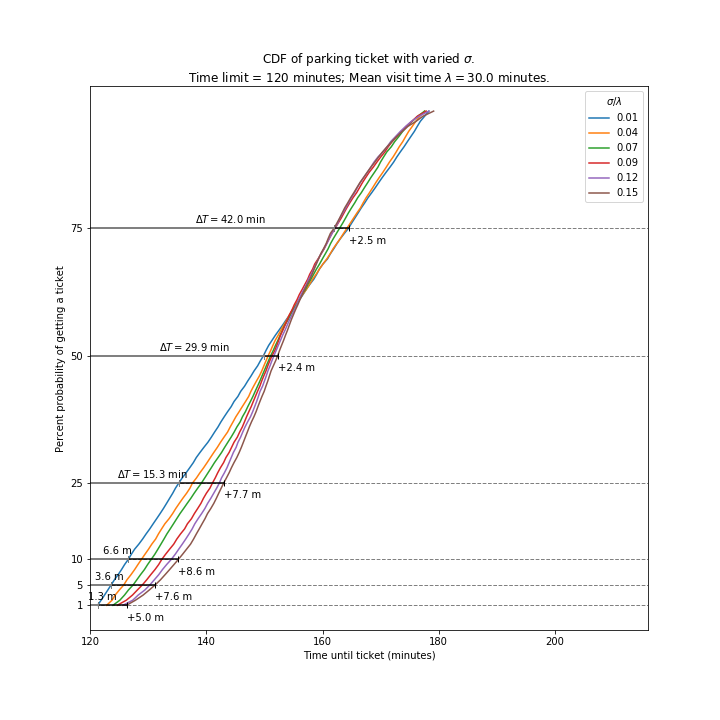
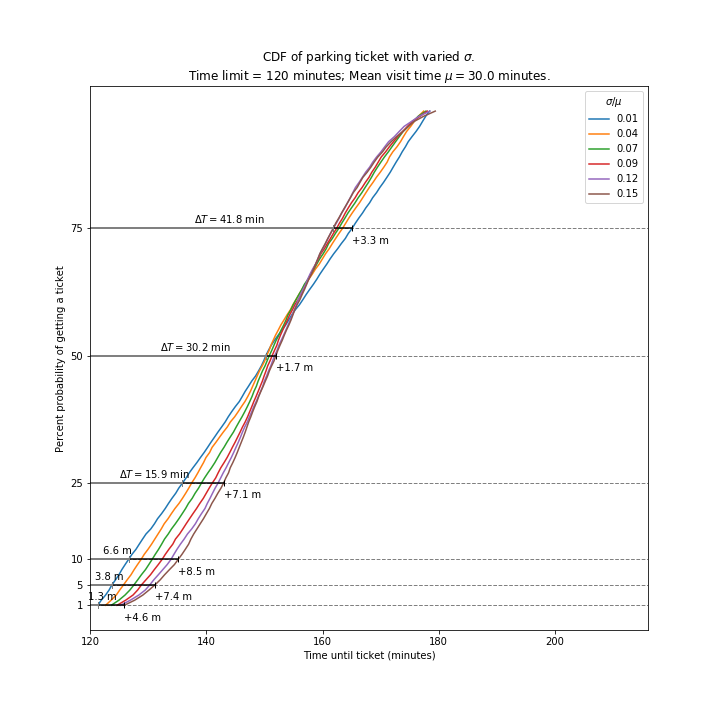
Updated parking article

diff --git a/_site/2019/08/12/modelling-parking-ticket-times.html b/_site/2019/08/12/modelling-parking-ticket-times.html
@@ -185,7 +185,12 @@
       <li><a href="#the-order-of-events-leading-to-a-ticket">The order of events leading to a ticket.</a></li>
     </ul>
   </li>
-  <li><a href="#my-model-of-the-visit-times">My model of the visit times.</a></li>
+  <li><a href="#thinking-about-a-model-for-this-process">Thinking about a model for this process</a>
+    <ul>
+      <li><a href="#periodicity-or-lack-thereof">Periodicity, or lack thereof</a></li>
+      <li><a href="#my-proposed-solution-and-model-for-the-visit-times">My proposed solution and model for the visit times.</a></li>
+    </ul>
+  </li>
   <li><a href="#implementation-details">Implementation details</a>
     <ul>
       <li><a href="#inability-to-vectorize-the-arrival-time-loops">Inability to vectorize the arrival time loops</a></li>
@@ -216,10 +221,35 @@
   <li>At the first arrival after the two-hour mark, the ticket is given.</li>
 </ol>
 
-<h2 id="my-model-of-the-visit-times">My model of the visit times.</h2>
+<h2 id="thinking-about-a-model-for-this-process">Thinking about a model for this process</h2>
+
+<h3 id="periodicity-or-lack-thereof">Periodicity, or lack thereof</h3>
+<p>There is likely <em>some</em> periodicity to the arrivals of the PEV, except in the case where there are several PEVs on the same beat, able to communicate with each other. However, in either case, there will be some periodic behavior.</p>
+
+<p>(1) Perfectly periodic visits look like this (mean period <script type="math/tex">\mu = 12</script>):</p>
+
+<p><img src="/images/parking_periodic.png" alt="CDF for long times" title="title" class="align-center" /></p>
+
+<p>(2) Perfectly non-periodic visits (I’ve generated these with the exact same same mean period, <script type="math/tex">\mu=12</script>) look something like this:</p>
+
+<p><img src="/images/parking_non_periodic.png" alt="CDF for long times" title="title" class="align-center" /></p>
+
+<p>It is fascinating that to humans, this author very much included, truly random events don’t look random, at least not without a lot of re-training of our intuition. To me, the data points look like they arrive in clumps. This strikes me as what rain sounds like when it strikes a thin roof.</p>
+
+<p>This latter distribution is very common in the natural world: any non-correlated i.i.d. events, such as photons from constant-intensity source hitting a detector, or rain drops striking a tin roof.</p>
+
+<p>This latter case is called a Poisson process, about which the following properties:</p>
+<ol>
+  <li>The time between arrivals is given by a negative exponential distribution.</li>
+  <li>The total count of events during a time-duration <script type="math/tex">\Delta T</script> is given by the Poisson distribution.</li>
+</ol>
+
+<p>A big question here is: how do we capture this quasi-periodicity with our probabilistic model?</p>
+
+<h3 id="my-proposed-solution-and-model-for-the-visit-times">My proposed solution and model for the visit times.</h3>
 <p>Say that the parking enforcement vehicle (PEV) arrives, on average, every <script type="math/tex">\mu</script> minutes—this is the mean wait time.</p>
 
-<p>The following is my argument for my model, and why it’s plausible:</p>
+<p>This is my model of the process, including arguments for why I think the model is plausible:</p>
 
 <ul>
   <li>Time <em>t=0</em> starts at the moment you park the car.</li>
@@ -241,18 +271,18 @@
 </ul>
 
 <p>The monte carlo simulation thus takes this simple nested loop (pseudocode):</p>
-<div class="highlighter-rouge"><div class="highlight"><pre class="highlight"><code>N := 10,000
+
+<figure class="highlight"><pre><code class="language-guess_lang" data-lang="guess_lang">N := 10,000
 data := array(length=N)
 for n going from 1 to N:
   sum := generate_t0() # randomly drawn initial time
   while sum &lt; 120: # minutes
     sum := sum + generate_t_i() # randomly drawn subsequent time
-  data[n] := sum   
-</code></pre></div></div>
+  data[n] := sum   </code></pre></figure>
 
 <p>For each iteration of the time-until-ticket simulation, we sum randomly drawn arrival times until 2 hours is exceeded; the total elapsed time is then recorded. I found that the histogram (which will begin to approximate the true <a href="https://en.wikipedia.org/wiki/Probability_density_function">probability density function</a> (pdf) as <script type="math/tex">N</script>  gets big, according to the <a href="https://en.wikipedia.org/wiki/Law_of_large_numbers">Law of Large Numbers</a>), starts to stabilize around <script type="math/tex">N > \mathrm{10,000}</script>.</p>
 
-<p>Here is what a typical such histogram looks like:
+<p>Here’s what a histogram of this simulation’s typical output looks like:
 <img src="/images/parking_hist_example.png" alt="CDF for long times" title="title" class="align-center" />
 Though, as discussed in the results section, below, this is not as useful a representation of the data for our purposes as a cumulative distribution function (CDF) view.</p>
 
@@ -264,7 +294,9 @@ Though, as discussed in the results section, below, this is not as useful a repr
 
 <h2 id="simulation-results">Simulation results</h2>
 
-<p>However, this view of the data does not allow us to figure out what the odds are of getting a parking ticket at specific times of being over-parked. For that, here is a plot of the CDF (cumulative distribution function), which tells you the probability (expressed as a percentage) of getting a ticket after given number of minutes after the two-hour mark.</p>
+<p>For visualizing the probability of getting a ticket as a function of how long we’re over-parked, here is a plot of the CDF (cumulative distribution function), which tells you the probability (expressed as a percentage) of getting a ticket after given number of minutes after the two-hour mark.</p>
+
+<p>There are different lines for different values of <script type="math/tex">\sigma</script>, the noisiness away from perfect periodicity by the PEV.</p>
 
 <p><img src="/images/parking_CDF_plot_1.png" alt="CDF for long times" title="title" class="align-center" />
 <img src="/images/parking_CDF_plot_2.png" alt="CDF for short times" title="title" class="align-center" /></p>

diff --git a/_posts/2019-08-12-modelling-parking-ticket-times.md b/_posts/2019-08-12-modelling-parking-ticket-times.md
@@ -21,10 +21,34 @@ To quantify the actual time you can park over the limit for, say, a 1% chance, o
 3. Several intermediate arrivals may occur, but if two hours hasn't passed, nothing changes.
 4. At the first arrival after the two-hour mark, the ticket is given.
 
-## My model of the visit times.
+## Thinking about a model for this process
+
+### Periodicity, or lack thereof
+There is likely *some* periodicity to the arrivals of the PEV, except in the case where there are several PEVs on the same beat, able to communicate with each other. However, in either case, there will be some periodic behavior.
+
+(1) Perfectly periodic visits look like this (mean period $$\mu = 12$$):
+
+
+![CDF for long times](/images/parking_periodic.png 'title'){: .align-center}
+
+(2) Perfectly non-periodic visits (I've generated these with the exact same same mean period, $$\mu=12$$) look something like this:
+
+![CDF for long times](/images/parking_non_periodic.png 'title'){: .align-center}
+
+It is fascinating that to humans, this author very much included, truly random events don't look random, at least not without a lot of re-training of our intuition. To me, the data points look like they arrive in clumps. This strikes me as what rain sounds like when it strikes a thin roof.
+
+This latter distribution is very common in the natural world: any non-correlated i.i.d. events, such as photons from constant-intensity source hitting a detector, or rain drops striking a tin roof.
+
+This latter case is called a Poisson process, about which the following properties:
+1. The time between arrivals is given by a negative exponential distribution.
+2. The total count of events during a time-duration $$\Delta T$$ is given by the Poisson distribution.
+
+A big question here is: how do we capture this quasi-periodicity with our probabilistic model?
+
+### My proposed solution and model for the visit times.
 Say that the parking enforcement vehicle (PEV) arrives, on average, every $$\mu$$ minutes---this is the mean wait time.
 
-The following is my argument for my model, and why it's plausible:
+This is my model of the process, including arguments for why I think the model is plausible:
 
 * Time *t=0* starts at the moment you park the car.
 * If the PEV is traveling with perfect periodicity of $$T=\mu$$, then the time until its first arrival, $$t_0$$, is randomly drawn from a uniform distribution $$t_0 \sim \mathrm{uniform}[0, \mu]$$, since the phase of the parking vehicle's loop is uncorrelated with your own arrival.
@@ -40,7 +64,7 @@ $$t_i \sim C + \mathrm{gamma}(a, \mu - C, \sigma),$$
 * where $$C$$ is the minimum lap time (physically corresponding to duration of the parking enforcement traveling at full speed the whole way around the lap, without stopping to give tickets or for stop signs, etc.). The gamma distribution applies to processes that have a large number $$(n \gtrapprox 50)$$ of subsequent, exponentially-derived events.
 
 The monte carlo simulation thus takes this simple nested loop (pseudocode):
-~~~~
+{% highlight guess_lang %}
 N := 10,000
 data := array(length=N)
 for n going from 1 to N:
@@ -48,11 +72,11 @@ for n going from 1 to N:
   while sum < 120: # minutes
     sum := sum + generate_t_i() # randomly drawn subsequent time
   data[n] := sum   
-~~~~
+{% endhighlight %}
 
 For each iteration of the time-until-ticket simulation, we sum randomly drawn arrival times until 2 hours is exceeded; the total elapsed time is then recorded. I found that the histogram (which will begin to approximate the true [probability density function](https://en.wikipedia.org/wiki/Probability_density_function) (pdf) as $$N$$  gets big, according to the [Law of Large Numbers](https://en.wikipedia.org/wiki/Law_of_large_numbers)), starts to stabilize around $$N > \mathrm{10,000}$$.
 
-Here is what a typical such histogram looks like:
+Here's what a histogram of this simulation's typical output looks like:
 ![CDF for long times](/images/parking_hist_example.png 'title'){: .align-center}
 Though, as discussed in the results section, below, this is not as useful a representation of the data for our purposes as a cumulative distribution function (CDF) view.
 
@@ -65,7 +89,9 @@ After
 ## Simulation results
 
 
-However, this view of the data does not allow us to figure out what the odds are of getting a parking ticket at specific times of being over-parked. For that, here is a plot of the CDF (cumulative distribution function), which tells you the probability (expressed as a percentage) of getting a ticket after given number of minutes after the two-hour mark.
+For visualizing the probability of getting a ticket as a function of how long we're over-parked, here is a plot of the CDF (cumulative distribution function), which tells you the probability (expressed as a percentage) of getting a ticket after given number of minutes after the two-hour mark.
+
+There are different lines for different values of $$\sigma$$, the noisiness away from perfect periodicity by the PEV.
 
 
 ![CDF for long times](/images/parking_CDF_plot_1.png 'title'){: .align-center}
